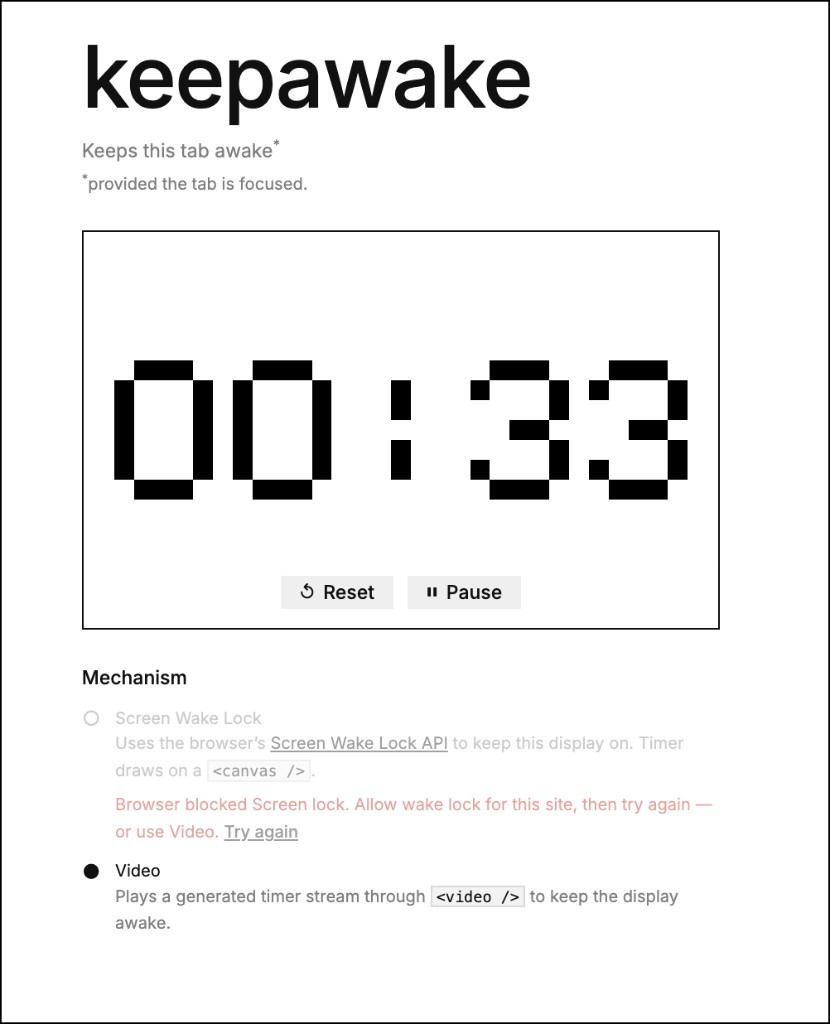
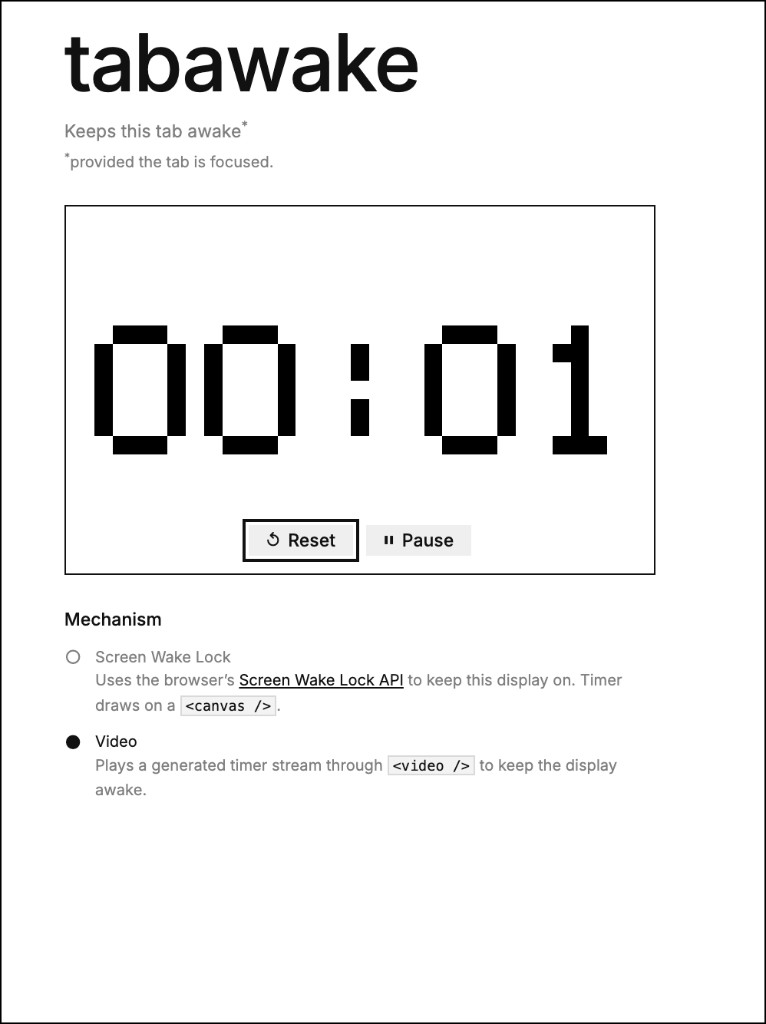
fix(home): refresh tabawake card image without blur or hover dim
Swap in the latest screenshot, drop the blur placeholder, serve at
full quality, and remove the hover opacity fade on the card link.

diff --git a/app/page.tsx b/app/page.tsx
@@ -46,13 +46,13 @@ const HomePage = () => {
           href={TABAWAKE_URL}
           target="_blank"
           rel="noopener noreferrer"
-          className="block w-full max-w-4xl transition-opacity hover:opacity-90"
+          className="block w-full max-w-4xl"
         >
           <NextImage
             src={tabawake}
             alt="tabawake — keeps this tab awake"
-            placeholder="blur"
             sizes="(max-width: 896px) 100vw, 896px"
+            quality={100}
             className="border-2 border-[rgba(0,0,0,0.333)] w-full h-auto"
           />
         </a>
